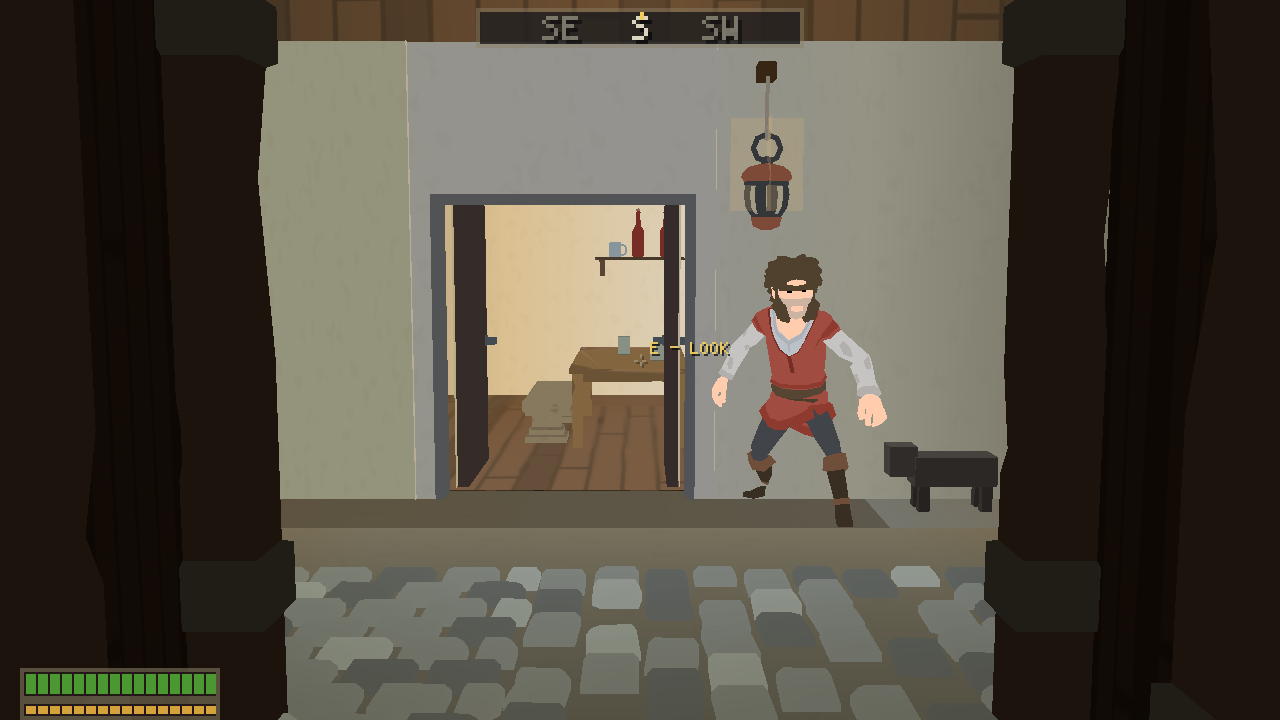
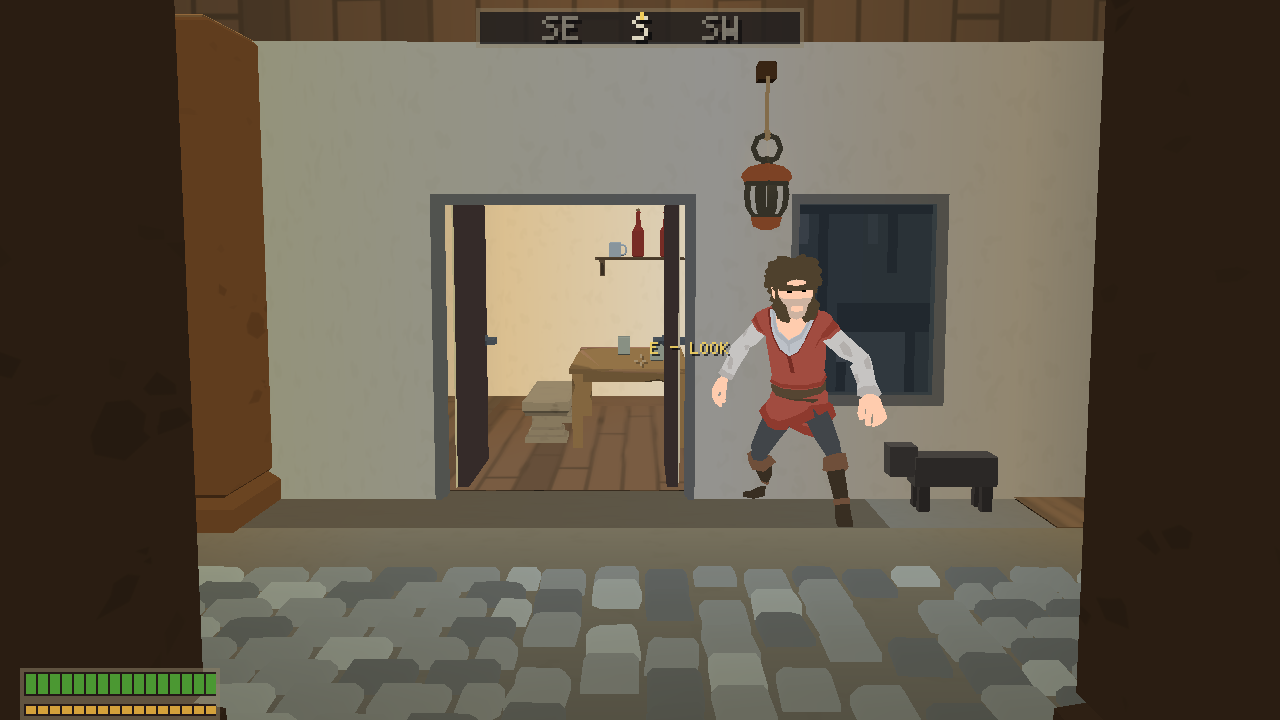
wip(3d/world): frames reshot off the gated 624164ad exe, two new vantages (the quay wall, the door bay), the README's third pass

diff --git a/docs/frames/3d-world-synty/README.md b/docs/frames/3d-world-synty/README.md
@@ -1,7 +1,7 @@
-# 3D world, the Synty kit on the Docks, second pass
+# 3D world, the Synty kit on the Docks, third pass
 
 Every frame here is `dist\granadad.exe` (the docker gate's mingw build, branch
-`3d/build`, commit `6d4b8656`) shot on the Windows host with a real GPU through
+`3d/build`, commit `624164ad`) shot on the Windows host with a real GPU through
 the shutter. 1280x720, the 640x360 render upscaled 2x, the terminal HUD on top.
 Nothing is staged. The placements are a pure function of the tile map and the
 catalogue (`content/raws/world3d/docks-pieces.json`), the people are where the
@@ -11,11 +11,25 @@ Reshoot any frame on this commit with the command in the table. `--hold` keeps
 the body on its spawn tile, `--pitch=DEG` looks up or down, a narrow `--fov` is
 the zoom. Run them from the repo root.
 
-## The critic's fourteen
+## The critic's six
 
-A Bethesda-style pass on the first cut scored it 6/10 and listed fourteen
-defects. This is where each one landed. Code lines are in
-`native/src/render3d/static_pieces.cpp` unless said otherwise.
+The second cut scored 7/10 with two blockers and four minors. Where each one
+landed. Code is `native/src/render3d/static_pieces.cpp` unless said otherwise.
+
+| # | the defect | what changed | see |
+|---|---|---|---|
+| 1 | a 0.25 m pixel band round the Gull's ceiling line wherever a wall stands over the room, and a hole over every pillar | a wall's underside quad hangs at the slab plane now, the same plane the floor ceilings round it hang at, so there is no recess and no slab side to see (`ceilings()`, the underside pass). The ceiling pass also takes a floor over a WALL that stands inside a room, a pillar, the bar, the hearth (`overRoomWall()`), so the room's ceiling is one plane. | 13, 21, 22, 23 |
+| 2 | every rowboat a capsized dome, six to a frame | the boat is upright. Its glTF says so (normals down at the keel, up on the boards, the winding agrees, the cleats on the gunwale at Y 1.09); it read as a dome because a flat unlit colour is a dome and a bowl alike. Point pieces are drawn shaded by their own normals now (`kDrawShaded`, the four-tint shader in `rl_backend.cpp`: faces that look down to half, faces that look up lifted an eighth, the sides as they were), so the inside is bright, the outer hull dark and the rim between them reads. And `boatEvery` 7 to 14. | 08, 17, 18 |
+| 3 | hard-edged squares behind every lantern by day, bright rectangles at night, a tan square through the brazier | a flame's quad is drawn as a halo (`kDrawHalo`): its alpha falls off radially over the quad to nothing at the edge. By day it keeps an eighth of its alpha, not a third (`kFlameDayAlpha`). The lantern wears a warm tint; it has no glass submesh (one atlas material), so the whole lamp is its own warm light. The brazier is 0.6 and its tray and flame are placed at the stand's own scale. | 03, 15, 16, 25 |
+| 4 | the quay wall below the lip chunk atlas, dark chevrons under the quay, a sliver of atlas at a hull's waterline | the chevrons were the cornice's dentils on the harbour band; the cornice stays above it now. A masonry face on the harbour band with the water beside it is a quay wall and wears the flag piece stood on edge (`QuayWall`, `SM_Env_Path_Stone_01`) from the coping down into the water. The sliver was the wedge a leaning quad opens at every corner of a hull, and no rectangle closes a wedge, so the lean is a knob and ships at zero: the hull stands plumb with its gunwale beam and its lines. | 24, 08, 17 |
+| 5 | light steps at the Gull's jamb at night, a lighter hairline at every plaster cut by day, no window beside the door | a run's cut at a jamb is lit between the jamb cell and the gap cell, and the door frame is lit across the gap from the same pair, so the two meet at one value (`runLight()` with `beyondA0/A1`). Thin plaster quads overlap whatever they meet by half a centimetre and stand a hair proud, staggered, so no hairline of the chunk shows at a cut. The frame's end returns stay inside the wall's own thickness (the frame's trim is thicker than the wall but stops short of the ends; proud of it, the return's edge was the hairline). A run that ends at a jamb is cut from the door, so the door's bay is a whole bay and the window rhythm starts on it: a window beside every door. | 03, 16, 25 |
+| 6 | flags fitted 3 m over 2 tiles as crazy paving, a brick top wearing street cobbles with a red lip, four banded piles either side of the door like a fortress gate | the roof finish keys on the building top: a floor of a roofing material, or any floor with a room under it, or one over that room's walls, whatever the tile says (`roofCell()`), wears the flag piece at its own 1:1 module on whole 3x3 blocks over a dark fill, the rest lead, and its lips in the roof's own dark. A timber post (a lone cell, or one whose single wall neighbour is of another kind) is a square pillar, plaster indoors and timber out; within two cells of the water it keeps its tarred boards and carries one pile, its head over the core. | 05, 06, 11, 01 |
+
+## The critic's fourteen, from the second pass
+
+The first cut scored 6/10 and listed fourteen defects. Where each one
+landed. Code lines are in `native/src/render3d/static_pieces.cpp` unless said
+otherwise.
 
 | # | the defect | what changed | see |
 |---|---|---|---|
@@ -57,10 +71,12 @@ defects. This is where each one landed. Code lines are in
 | 17 | the quay edge at the water | `--spawn=147,59,19 --yaw=330 --pitch=-14 --hold --time=10 --screenshot=17.png` |
 | 18 | a pier head, the crane on it | `--spawn=131,44,19 --yaw=0 --pitch=-4 --hold --time=10 --screenshot=18.png` |
 | 19 | the overview at nine at night | `--spawn=153,72,21 --yaw=300 --pitch=-20 --hold --time=21 --screenshot=19.png` |
-| 20 | the 1x1 timber posts flanking the Gull's door | `--spawn=152,61,19 --yaw=180 --pitch=2 --fov=55 --hold --time=10 --screenshot=20.png` |
+| 20 | the Gull's door, lantern and window at 55 degrees (the posts either side are in 01) | `--spawn=152,61,19 --yaw=180 --pitch=2 --fov=55 --hold --time=10 --screenshot=20.png` |
 | 21 | the Gull's hearth, head on | `--spawn=150,73,19 --yaw=180 --hold --time=20 --screenshot=21.png` |
 | 22 | the Gull's tables, pillars and bar from the snug end | `--spawn=156,67,19 --yaw=250 --pitch=-3 --hold --time=20 --screenshot=22.png` |
 | 23 | the doorway corner from inside the room | `--spawn=155,69,19 --yaw=325 --pitch=6 --fov=50 --hold --time=20 --screenshot=23.png` |
+| 24 | the quay wall from the pier, coping to water | `--spawn=132,54,19 --yaw=120 --pitch=-22 --fov=70 --hold --time=10 --screenshot=24.png` |
+| 25 | the Gull's door bay, the window beside the door, the lantern between | `--spawn=152,60,19 --yaw=180 --pitch=6 --fov=50 --hold --time=10 --screenshot=25.png` |
 
 ## What is placed
 
@@ -73,12 +89,15 @@ every test draws). The pieces are a skin over it, placed by
   (`SM_Bld_Base_Wall_Thin_01`) on rendered stone out of doors and on every
   indoor face, tinted per material. The plank quad stood on edge on timber.
   A timber wall beside the harbour is a hull and wears the plank quad across,
-  leaning out, tarred.
+  tarred, plumb (the lean is a knob, shipped at zero). A masonry face on the
+  harbour band with the water beside it is a quay wall and wears the flag
+  piece on edge, coping to water.
 - **corners**. A brick wall tile with exactly two exposed adjacent faces gets
   the corner piece. Other convex ends extend so the two faces close the
   corner. One-sided quads extend to their standoff and meet there.
 - **windows**. Every second piece along an outdoor run, on whole modules, only
-  where a room stands behind. The kit window on masonry, a hung window
+  where a room stands behind, counted from the door's end so the bay beside a
+  door gets one. The kit window on masonry, a hung window
   (`SM_Bld_House_Window_04`) on timber. The pane is dark by day and warm at
   night over a lit or a homely room.
 - **doors**. A two or three tile gap in a wall line, roofed on one side and
@@ -86,19 +105,22 @@ every test draws). The pieces are a skin over it, placed by
   rendered building, and a leaf hung open on each jamb. Four to eight tiles
   is a gate and gets a post each side and a beam across.
 - **cornices, caps, undersides**. The trim along every outdoor masonry roof
-  line, the wall heads capped in the wall's colour, the plaster quad under
-  every dressed wall that stands over an open cell.
+  line above the harbour band, the wall heads capped in the wall's colour, the
+  plaster quad under every dressed wall that stands over an open cell, at the
+  slab plane.
 - **floors and lips**. Two cobble blocks alternating and turning by hash on
   brick and granite streets over a flat fill, flags on Reman concrete, planks
   on oak and trudgeon, the flat fill on dirt and ash. The slab side quad
   wherever a floor edge faces air.
 - **ceilings and joists**. The plaster quad under every floor slab with a room
-  or the water under it, tinted per the floor. Beams across every room
-  ceiling on the odd grid lines.
-- **roofs**. Roofing planes (thatch in the tiles) wear the flagstone piece as
-  slates over a slate fill, loose tiles one cell in seven, an upstand along
-  every edge cell, chimneys one in twelve over masonry walls, a crate or a
-  barrel one edge cell in nine.
+  or the water under it, and under the slab over a pillar, a bar or a hearth
+  inside a room, tinted per the floor. Beams across every room ceiling on the
+  odd grid lines.
+- **roofs**. Every building top with sky over it (a roofing material, a floor
+  over a room, the ring over that room's walls) wears the flagstone piece at
+  its own module as slates over a slate fill, loose tiles one cell in seven,
+  an upstand along every edge cell, chimneys one in twelve over masonry
+  walls, a crate or a barrel one edge cell in nine.
 - **water**. The Dungeon Realms water plane over the harbour's surface, to 140
   tiles.
 - **props and furniture**. One floor cell in eleven against exactly one wall
@@ -106,12 +128,17 @@ every test draws). The pieces are a skin over it, placed by
   indoor lantern, tables with benches and mugs on the lattice and shelves with
   bottles on the masonry. A free-standing two-cell masonry block in a roofed
   room is a hearth.
-- **posts**. A lone 1x1 timber cell is a plastered square pillar indoors and a
-  tarred core with four banded posts out of doors.
+- **posts**. A timber post (a lone 1x1 cell, or one against a wall of another
+  kind) is a square pillar, plastered indoors and timber out of doors. Within
+  two cells of the water it is a tarred core with one pile through it.
 - **lamps**. Every baked lamp. A fire is a brazier with an ember tray and a
   flame. A lantern beside a wall hangs from a bracket arm, a lantern beside a
   door hangs beside it, a lantern under or beside a roof hangs on a chain, a
-  lantern in the open is the lamp post. Every flame is its own light.
+  lantern in the open is the lamp post. Every flame is its own light, a soft
+  halo that fades by day.
+- **shading**. A prop, a boat, a pillar, a chimney, a leaf: anything placed
+  at a point is shaded by its own normals, undersides dark and tops lifted,
+  so it has volume under a flat sky.
 - **harbour**. Rowboats along quay edges over clear water, cranes one cell back
   from pier heads, mooring lines down the hulls.
 
@@ -139,8 +166,13 @@ one line once the tiles say so.
   Gull's tables are these, in the sim's terms), so the dressing keeps the
   footprint and makes it a pillar or a post cluster rather than pretending
   it is thin.
-- The lantern halo is two crossed translucent quads. It reads as a glow from
-  the street and as a square up close.
+- The lantern halo is two crossed translucent quads with a radial falloff.
+  It reads as a glow; walk through one and the crossing shows.
+- The roof flags land on whole 3x3 blocks at their own module. A roof strip
+  narrower than three stays the plain dark fill, lead rather than slate.
+- The hull stands plumb. A lean is a knob (`hullFlareDegrees`) but a leaning
+  rectangle opens a wedge at every corner, so the shipped catalogue keeps it
+  at zero.
 - Props, furniture and boats are render-only. The sim knows nothing of them
   and a body walks through a table.
 - Some crowd bodies render white in daylight (a rig's embedded texture does
@@ -148,11 +180,11 @@ one line once the tiles say so.
 
 ## Numbers
 
-Gate stamp `6d4b8656`, native digest
[1 lines of base64/hex data omitted]
+Gate stamp `624164ad`, native digest
[1 lines of base64/hex data omitted]
 ctest cases, `verify-windows.ps1` PASS with both reports byte-identical.
 Tavern baseline `0x86E05F527E54E795` and population baseline
 `0x2646C1AAA2BA38DF`, both twice, unmoved. Scene hash on this build,
-`--smoke=40 --time=20` twice as separate processes, `0x52F94078E844DB03` both
-times with byte-identical PNGs. 19,134 pieces placed over the district, about
-3,700 described from the spawn.
+`--smoke=40 --time=20` twice as separate processes, `0xA47D544D1681F761` both
+times with byte-identical PNGs (sha256 `FD3D16BB...4A70A1`). 19,234 pieces
+placed over the district, about 3,600 described from the spawn.
